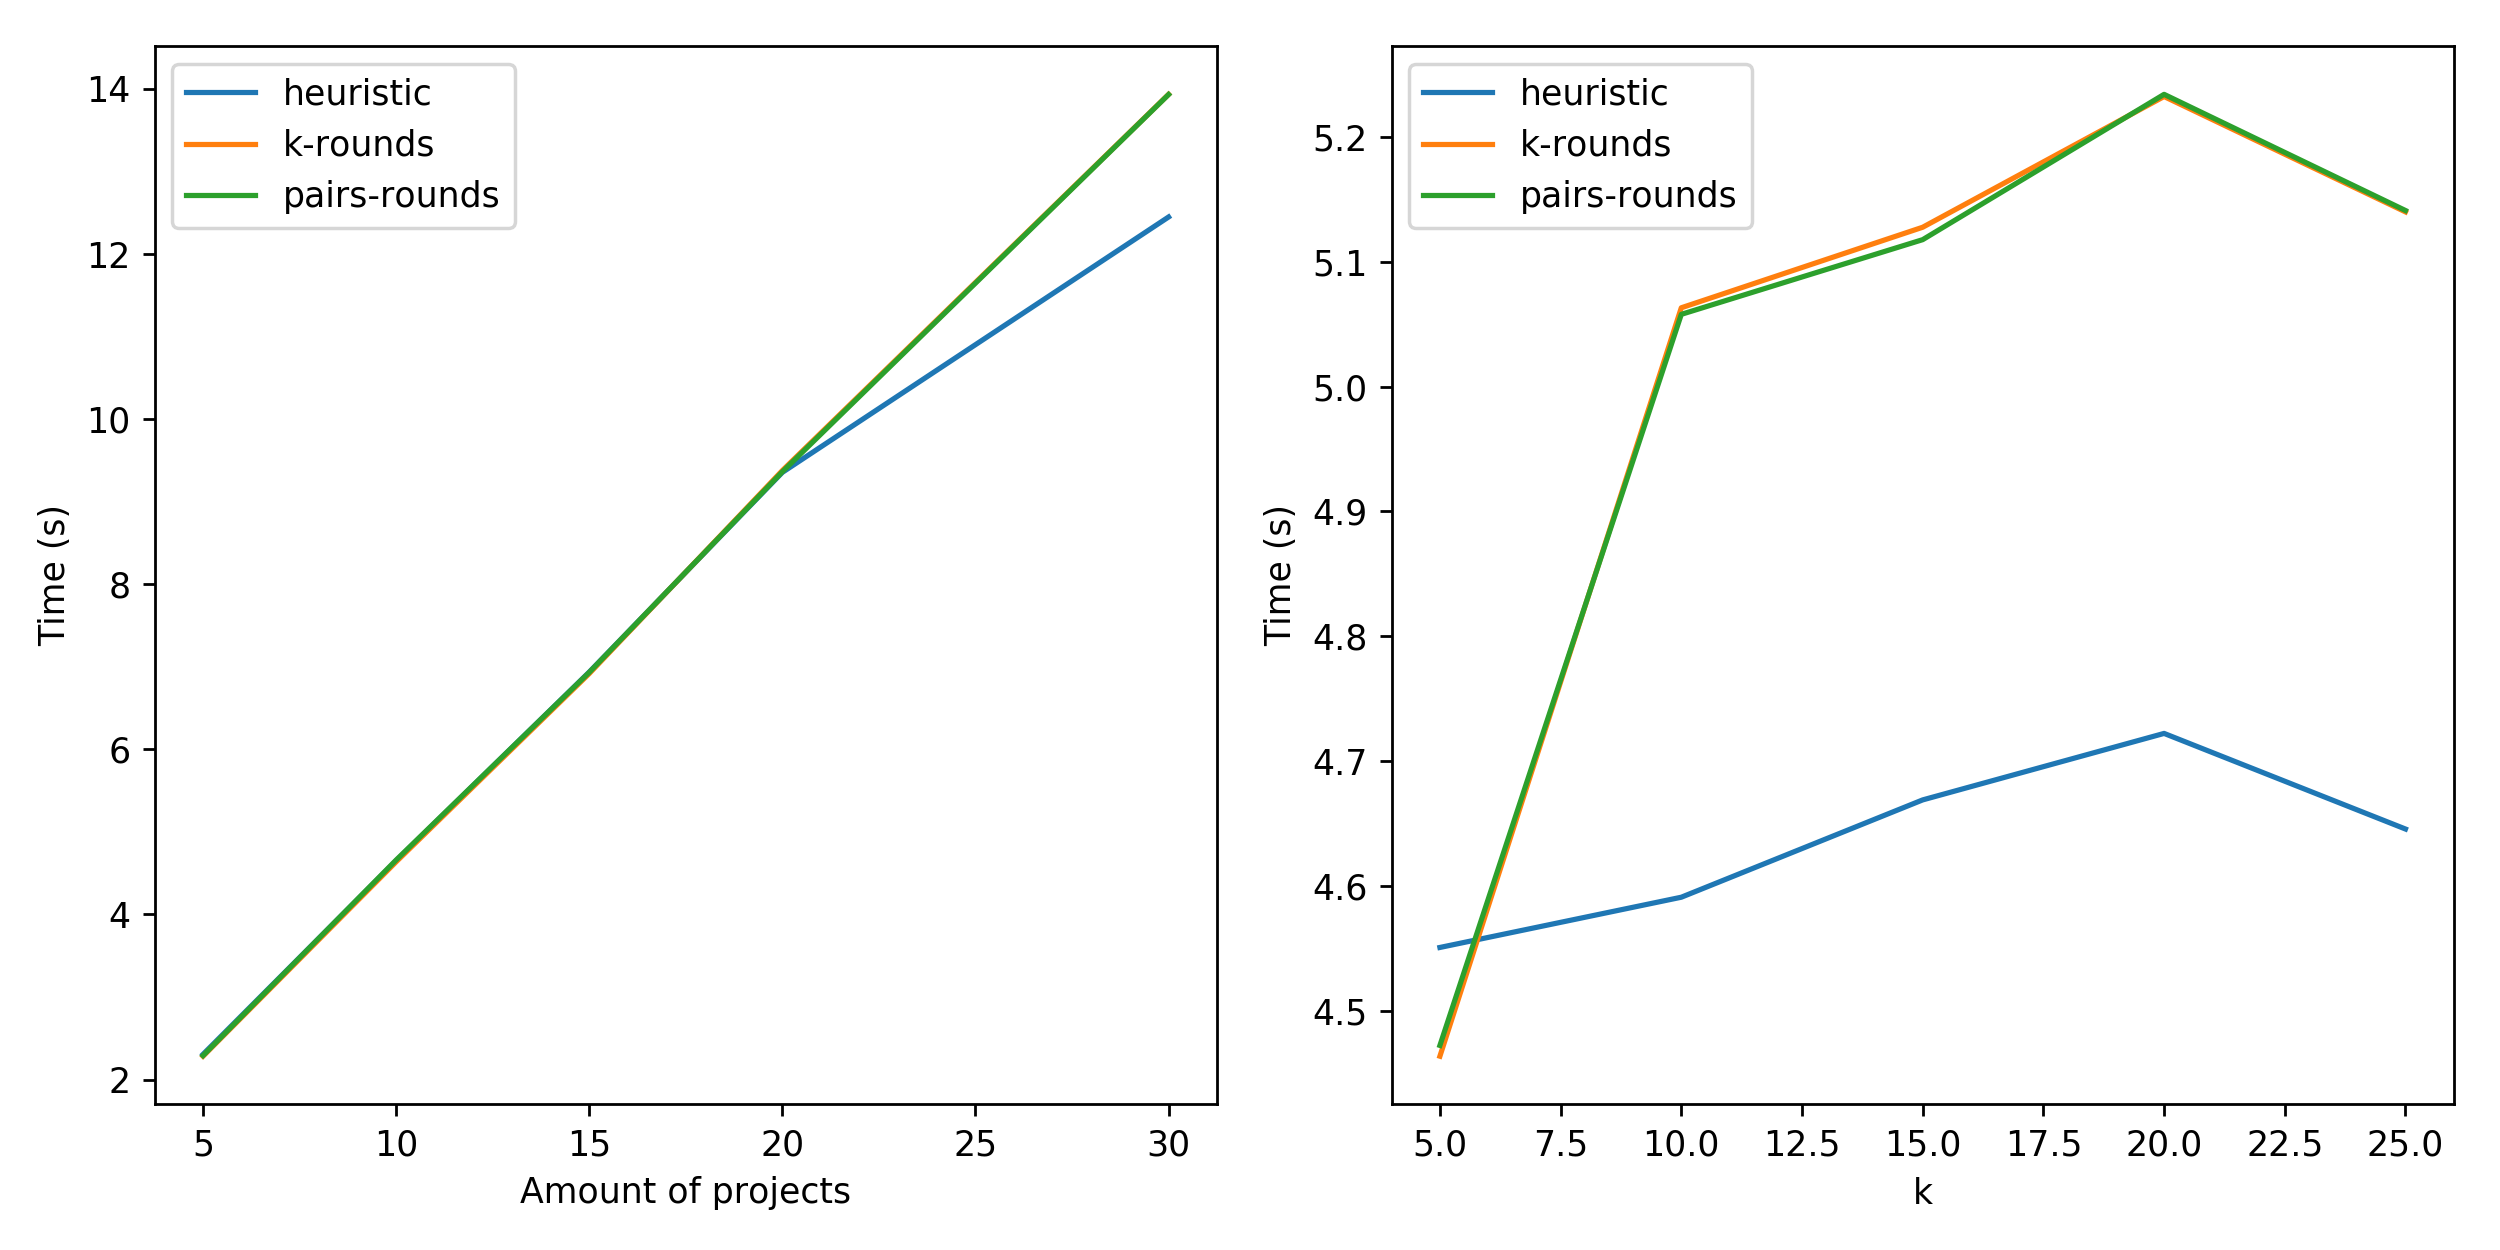
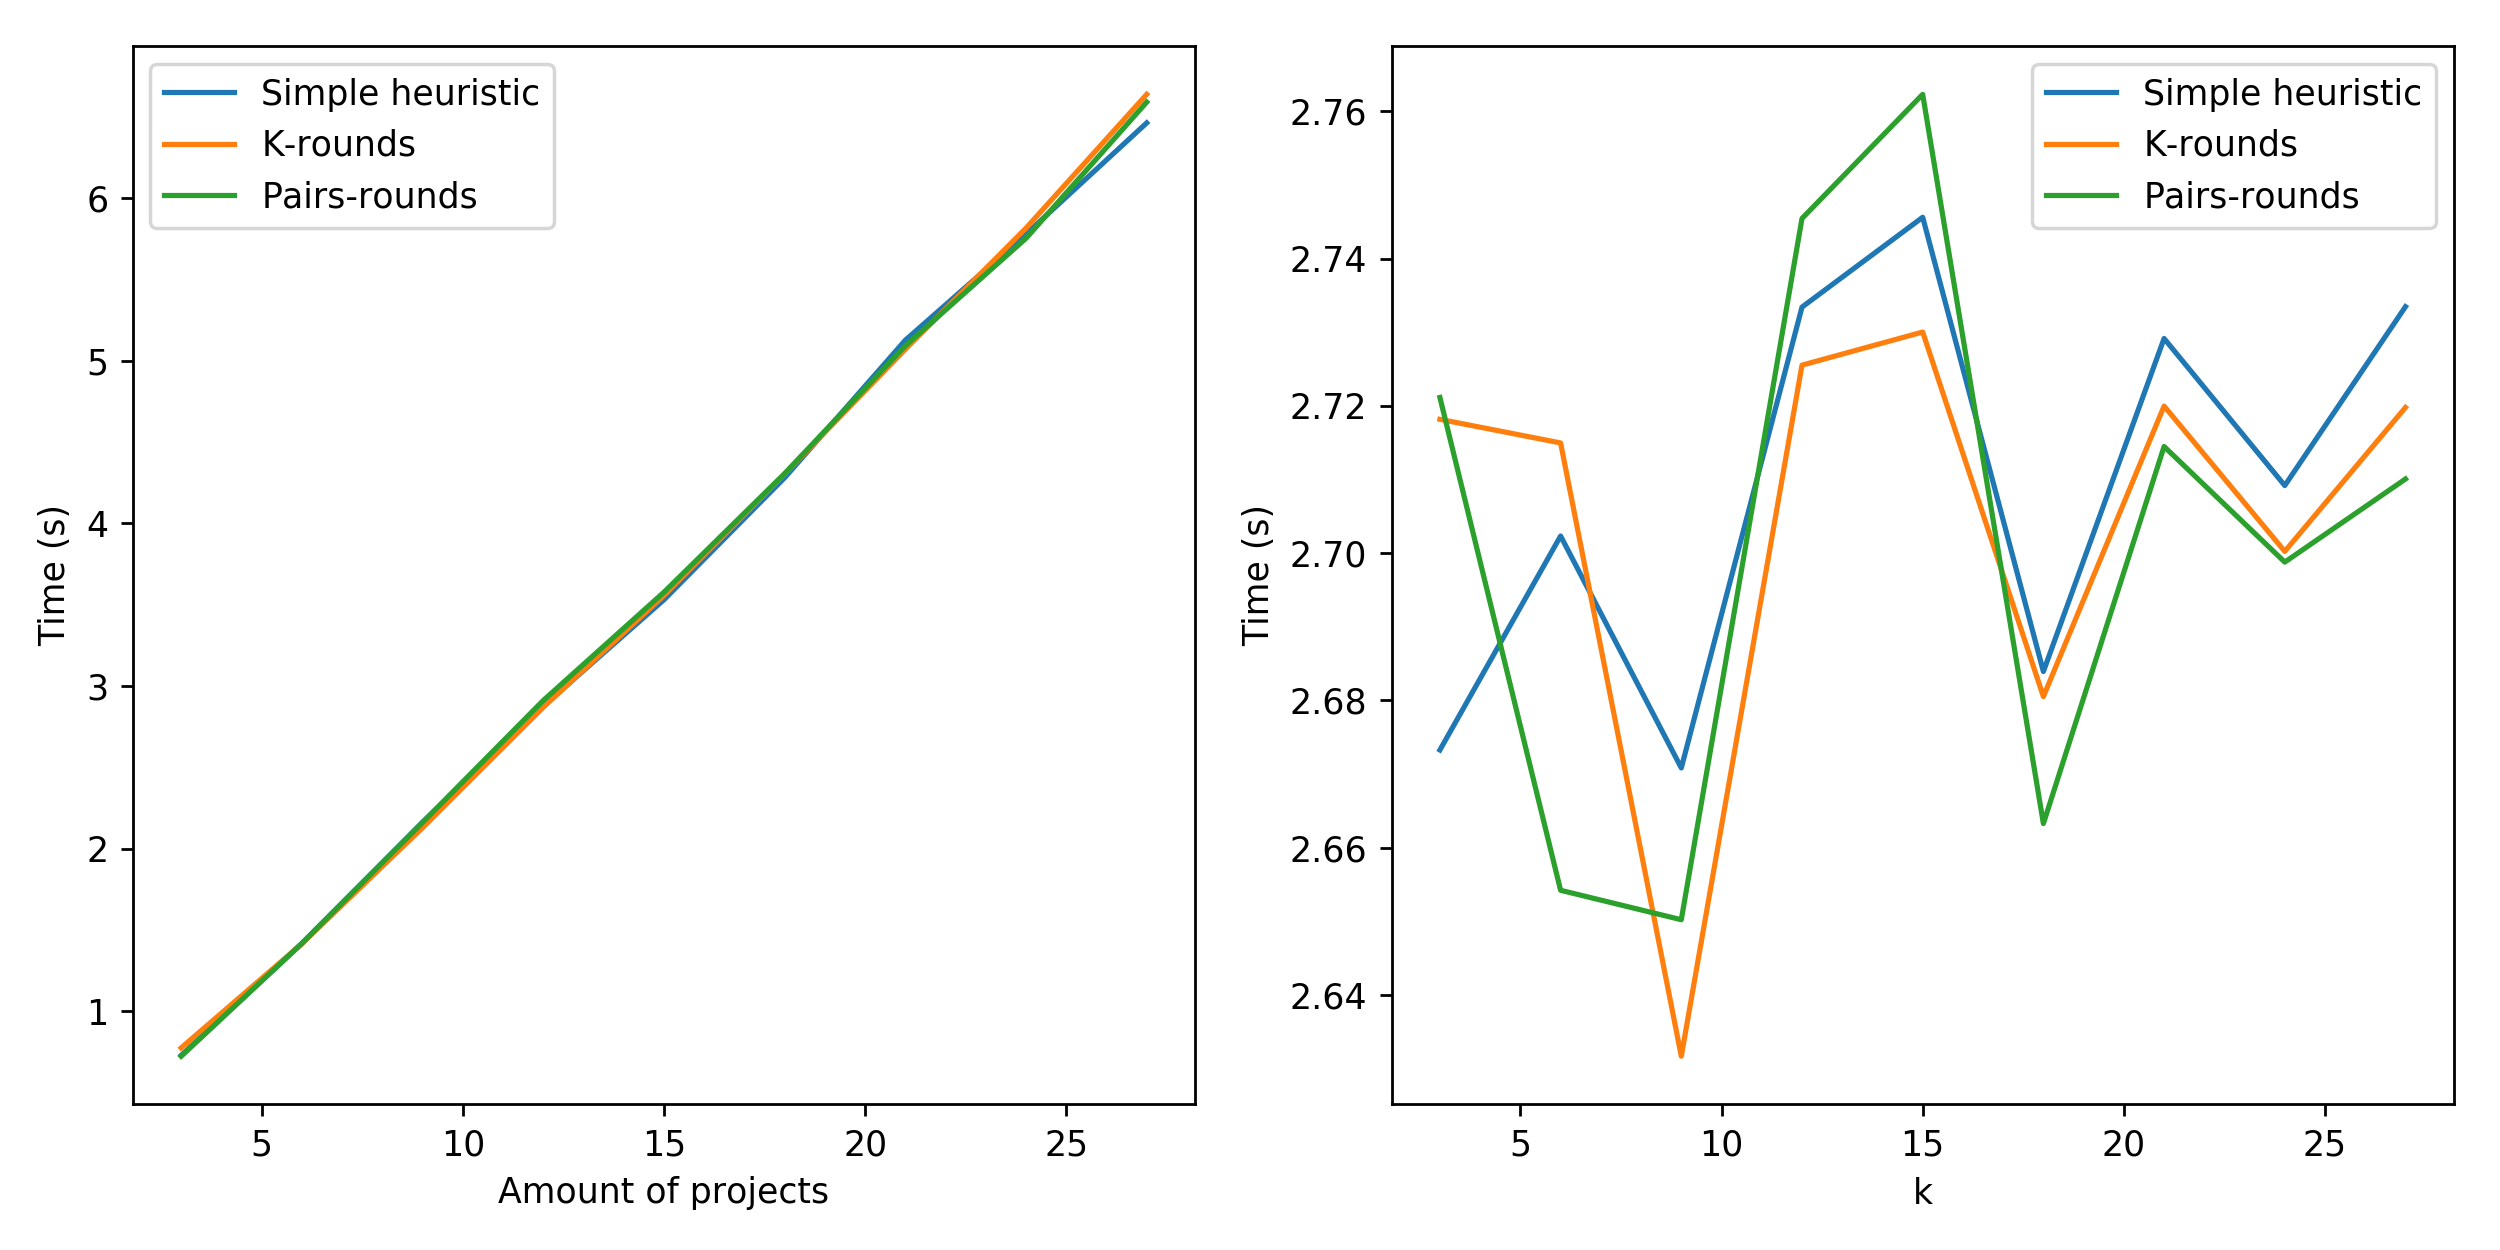
Random tests

diff --git a/main.py b/main.py
@@ -343,16 +343,16 @@ dt_fairness = [[[], []], [[], []], [[], []]]
 def plot_graphs():
     fig_time, axs_time = plt.subplots(nrows=1, ncols=2, figsize=(10, 5))
 
-    axs_time[0].plot(dt_time_p[0][0], dt_time_p[0][1], label='heuristic')
-    axs_time[0].plot(dt_time_p[1][0], dt_time_p[1][1], label='k-rounds')
-    axs_time[0].plot(dt_time_p[2][0], dt_time_p[2][1], label='pairs-rounds')
+    axs_time[0].plot(dt_time_p[0][0], dt_time_p[0][1], label='Simple heuristic')
+    axs_time[0].plot(dt_time_p[1][0], dt_time_p[1][1], label='K-rounds')
+    axs_time[0].plot(dt_time_p[2][0], dt_time_p[2][1], label='Pairs-rounds')
     axs_time[0].set_xlabel("Amount of projects")
     axs_time[0].set_ylabel("Time (s)")
     axs_time[0].legend()
 
-    axs_time[1].plot(dt_time_k[0][0], dt_time_k[0][1], label='heuristic')
-    axs_time[1].plot(dt_time_k[1][0], dt_time_k[1][1], label='k-rounds')
-    axs_time[1].plot(dt_time_k[2][0], dt_time_k[2][1], label='pairs-rounds')
+    axs_time[1].plot(dt_time_k[0][0], dt_time_k[0][1], label='Simple heuristic')
+    axs_time[1].plot(dt_time_k[1][0], dt_time_k[1][1], label='K-rounds')
+    axs_time[1].plot(dt_time_k[2][0], dt_time_k[2][1], label='Pairs-rounds')
     axs_time[1].set_xlabel("k")
     axs_time[1].set_ylabel("Time (s)")
     axs_time[1].legend()
@@ -363,7 +363,7 @@ def plot_graphs():
     fig_fairness, ax_fairness = plt.subplots(figsize=(10, 10))
 
     colors = ("red", "green", "blue")
-    groups = ("heuristic", "k-rounds", "pairs-rounds")
+    groups = ("Simple heuristic", "K-rounds", "Pairs-rounds")
     data = tuple(dt_fairness)
     for data, clr, group in zip(data, colors, groups):
         x = data[0]
@@ -371,8 +371,8 @@ def plot_graphs():
         ax_fairness.scatter(x, y, alpha=0.8, c=clr, edgecolors='none', s=30, label=group)
         z = np.polyfit(x, y, 1)
         p = np.poly1d(z)
-        ax_fairness.plot(x, p(x), color=clr, linestyle=':', linewidth=1.0)
-    ax_fairness.set_xlabel("k * P")
+        ax_fairness.plot(x, p(x), color=clr, linestyle='dashed', linewidth=1.0)
+    ax_fairness.set_xlabel("choices")
     ax_fairness.set_ylabel("fairness-deviation")
     ax_fairness.legend(loc=2)
 
@@ -386,56 +386,28 @@ if __name__ == "__main__":
 
     log_graphs['fairness'] = True
     log_graphs['time_p'] = True
-    generated_set_p = generate_set_p(5, 20, most_freq)
-    test_with_projects(generated_set_p, 9, False)
-
-    generated_set_p = generate_set_p(10, 20, most_freq)
-    test_with_projects(generated_set_p, 9, False)
-
-    generated_set_p = generate_set_p(15, 20, most_freq)
-    test_with_projects(generated_set_p, 9, False)
-
-    generated_set_p = generate_set_p(20, 20, most_freq)
-    test_with_projects(generated_set_p, 9, False)
-
-    generated_set_p = generate_set_p(30, 20, most_freq)
-    test_with_projects(generated_set_p, 9, False)
+    for p in range(3, 30, 3):
+        generated_set_p = generate_set_p(p, 20, most_freq)
+        test_with_projects(generated_set_p, 9, False)
     log_graphs['time_p'] = False
 
     log_graphs['time_k'] = True
-    generated_set_p = generate_set_p(11, 20, most_freq)
-    test_with_projects(generated_set_p, 5, False)
-
-    generated_set_p = generate_set_p(11, 20, most_freq)
-    test_with_projects(generated_set_p, 10, False)
-
-    generated_set_p = generate_set_p(11, 20, most_freq)
-    test_with_projects(generated_set_p, 15, False)
-
-    generated_set_p = generate_set_p(11, 20, most_freq)
-    test_with_projects(generated_set_p, 20, False)
-
-    generated_set_p = generate_set_p(11, 20, most_freq)
-    test_with_projects(generated_set_p, 25, False)
+    for k in range(3, 30, 3):
+        generated_set_p = generate_set_p(11, 20, most_freq)
+        test_with_projects(generated_set_p, k, False)
     log_graphs['time_k'] = False
 
-    generated_set_p = generate_set_p(10, 20, most_freq[-200:])
-    test_with_projects(generated_set_p, 12, False)
+    for p in random.sample(range(5, 35), 10):
+        for k in random.sample(range(3, 12), 5):
+            generated_set_p = generate_set_p(p, 20, most_freq[-200:])
+            test_with_projects(generated_set_p, k, False)
 
-    generated_set_p = generate_set_p(10, 20, most_freq[-200:])
-    test_with_projects(generated_set_p, 8, False)
+    for p in random.sample(range(5, 35), 10):
+        for k in random.sample(range(3, 12), 5):
+            generated_set_p = generate_set_p(p, 20, most_freq[:200])
+            test_with_projects(generated_set_p, k, False)
 
-    generated_set_p = generate_set_p(15, 20, most_freq[-200:])
-    test_with_projects(generated_set_p, 12, False)
-
-    generated_set_p = generate_set_p(20, 20, most_freq[:200])
-    test_with_projects(generated_set_p, 8, False)
-
-    generated_set_p = generate_set_p(9, 20, most_freq[:200])
-    test_with_projects(generated_set_p, 8, False)
-
-    generated_set_p = generate_set_p(16, 20, most_freq[:200])
-    test_with_projects(generated_set_p, 12, False)
+    pickle.dump((dt_time_p, dt_time_k, dt_fairness), open("stats.dat", "wb"))
 
     plot_graphs()
 
